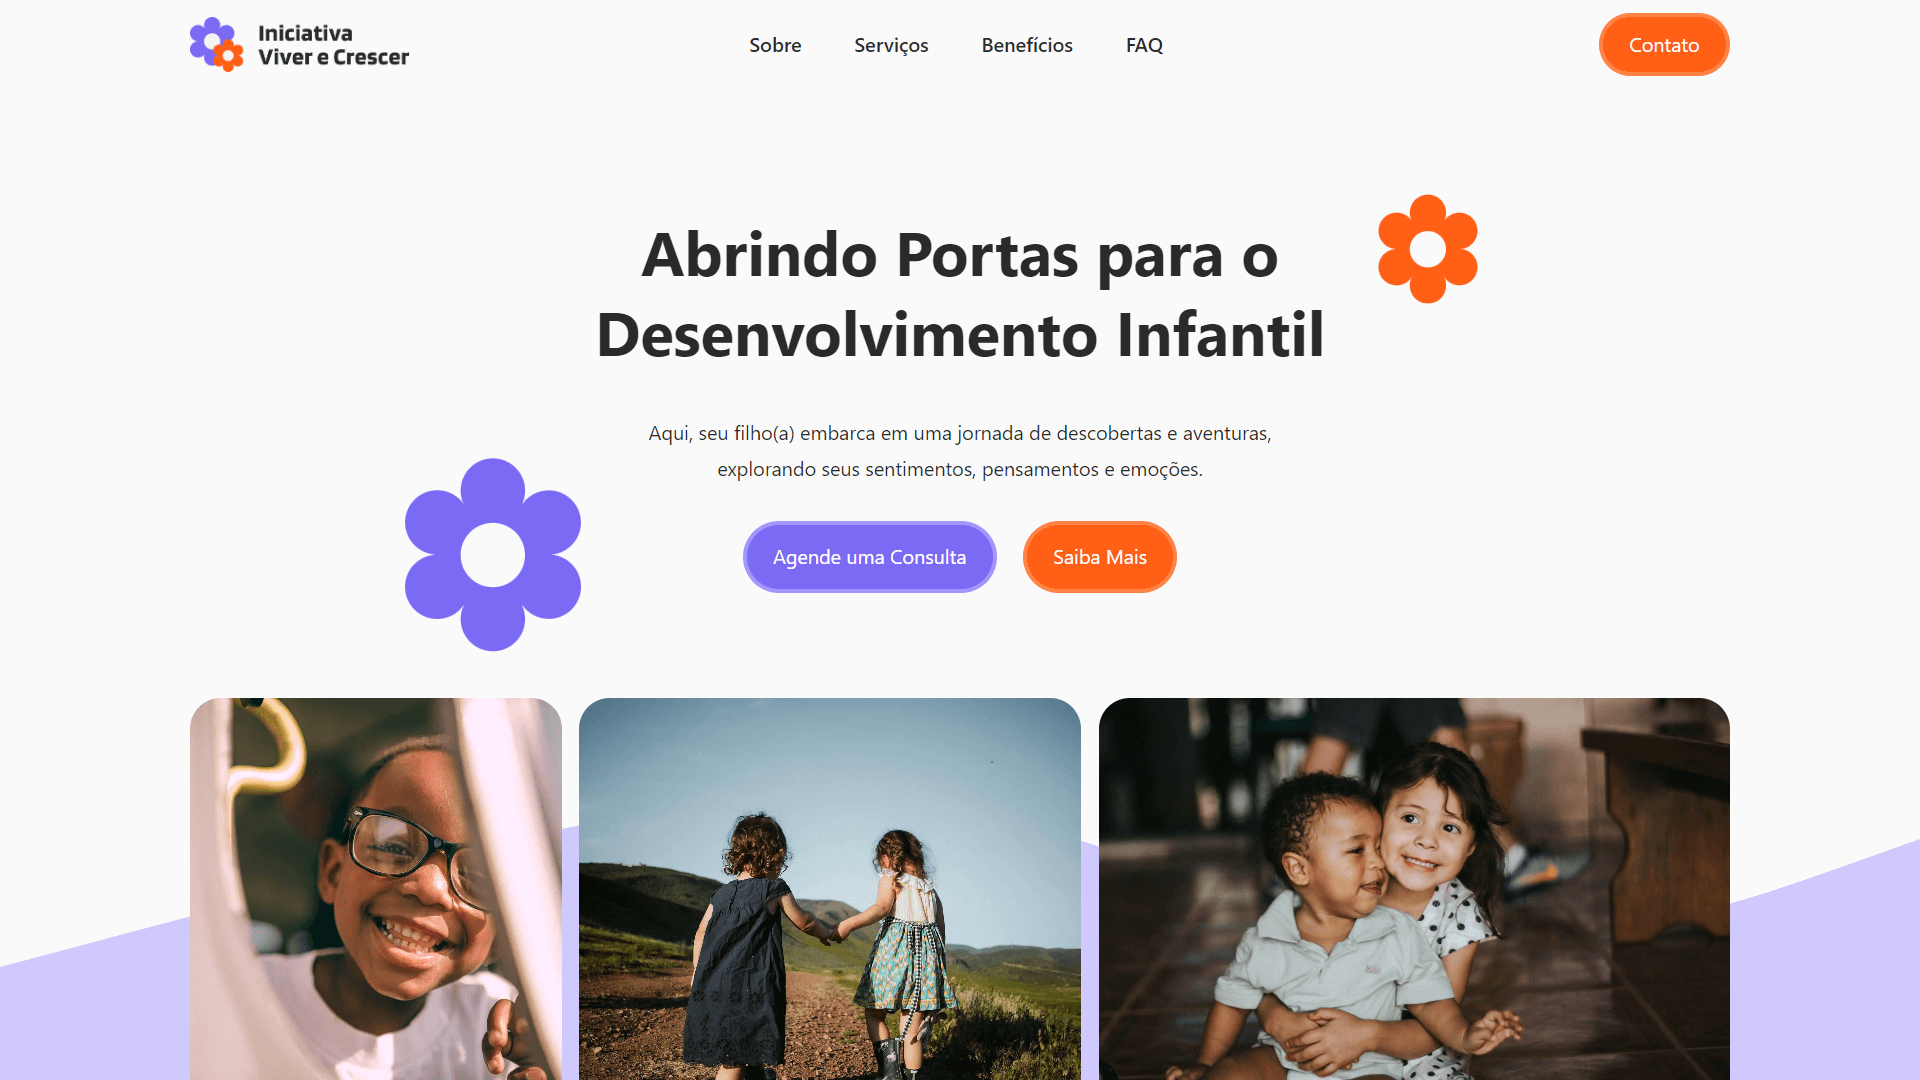
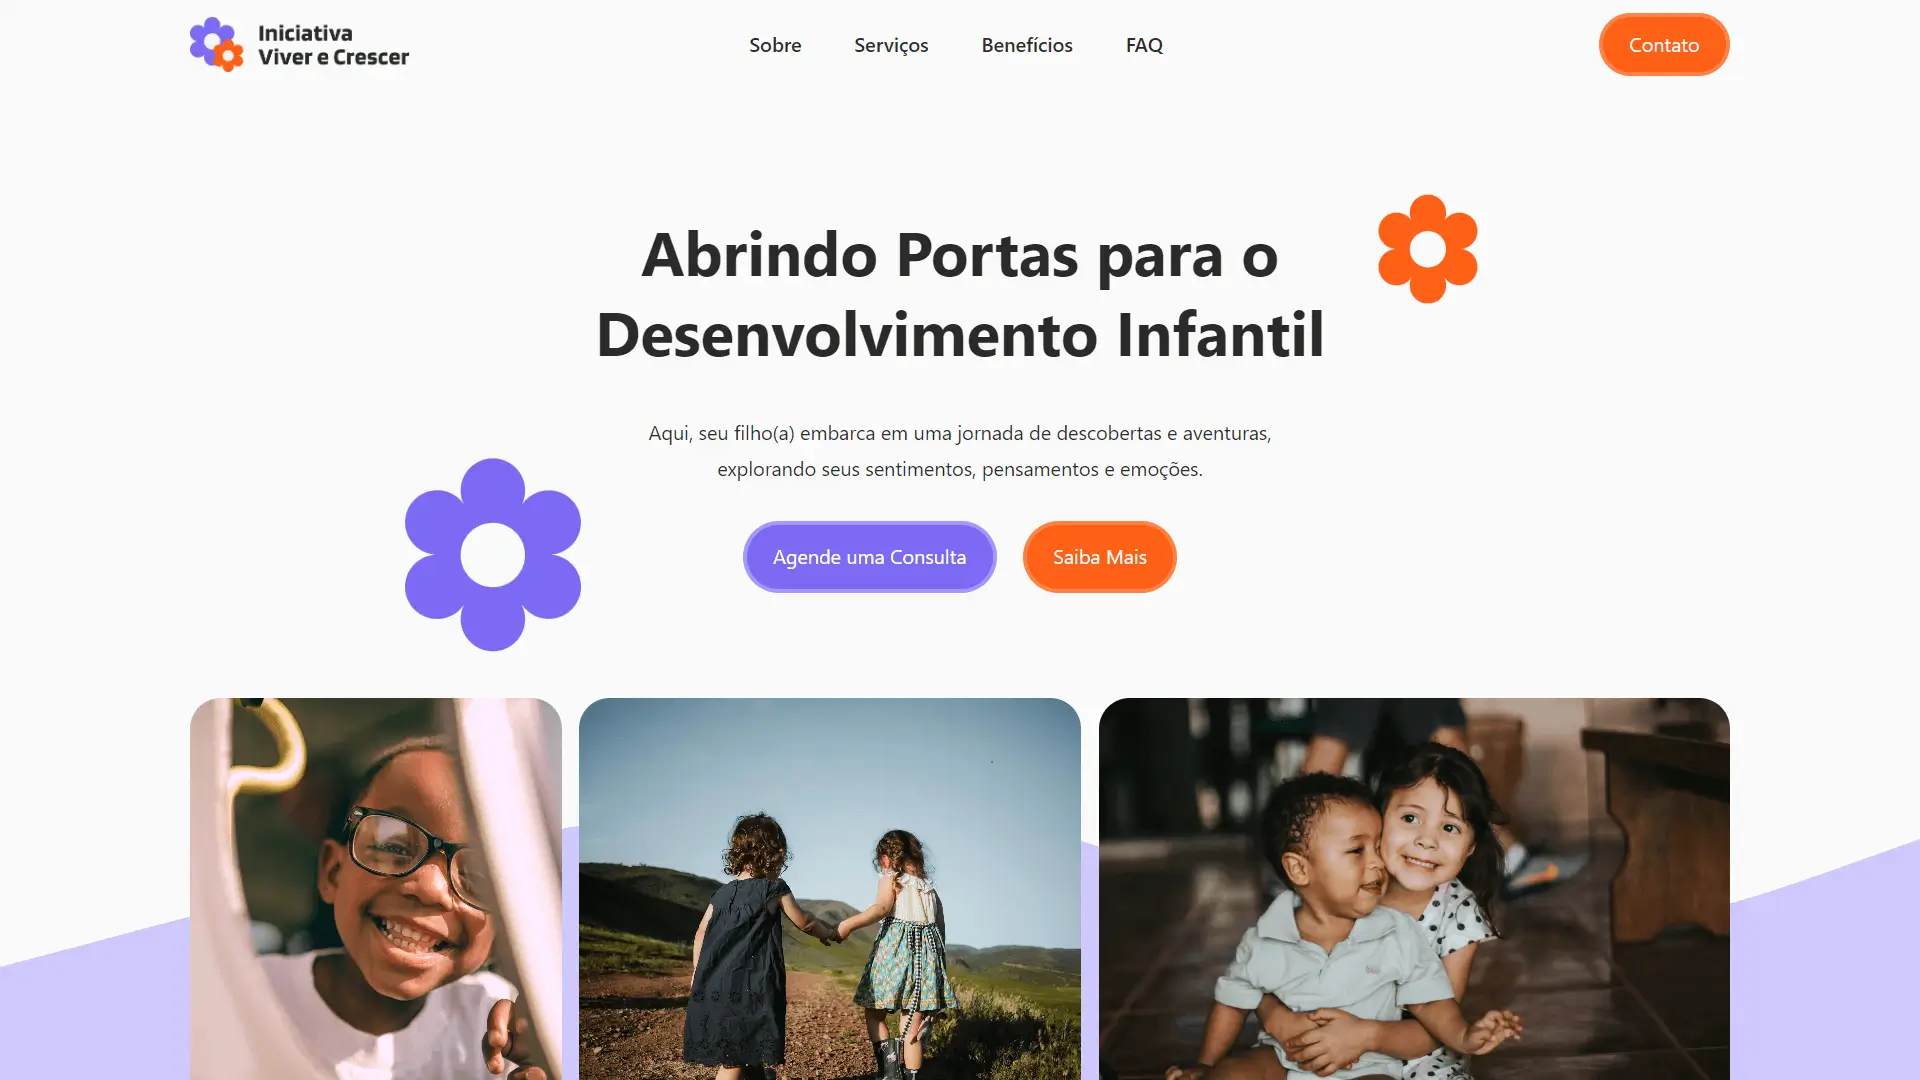
update: images sizes and minor styles fixes

diff --git a/style.css b/style.css
@@ -26,6 +26,7 @@
   --blue: #1d3997;
   --green: #135e54;
   --magenta: #7a1075;
+  --red: #ff0000;
 
   --rounded-xsm: 0.25rem;
   --rounded-sm: 0.375rem;
@@ -45,6 +46,8 @@
   box-sizing: border-box;
   text-decoration: none;
   list-style: none;
+  /* outline: 2px solid lime; */
+  /* background: hsl(0 100% 50% / .1)!important; */
 }
 
 ::selection {
@@ -300,7 +303,7 @@ textarea {
   gap: 4px;
 }
 
-/* --------------------------------- ANIMATIONS -------------------------------- */
+/* -------------------------------- ANIMATIONS -------------------------------- */
 
 .scale-up {
   animation: scale-up 0.8s cubic-bezier(0.4, 0, 0.2, 1);
@@ -315,8 +318,6 @@ textarea {
   }
 }
 
-/* header logo */
-
 @keyframes rotating {
   0% {
     transform: rotate(0);
@@ -329,9 +330,7 @@ textarea {
   }
 }
 
-/* ----------------------------------------------------------------------------- */
-
-/*  -------------------------------- CONTAINER WRAPPER ------------------------- */
+/*  ------------------------------- CONTAINER WRAPPER ------------------------- */
 
 .container {
   width: 100%;
@@ -343,8 +342,6 @@ textarea {
   width: min(100% - 64px, 1440px);
   margin-inline: auto;
 }
-
-/*  --------------------------------------------------------------------------- */
 
 /*  ---------------------------------- HEADER --------------------------------- */
 
@@ -385,7 +382,8 @@ textarea {
 }
 
 .logo-img {
-  width: 45px;
+  width: 44px;
+  height: 44px;
   scale: 0.3;
   opacity: 0;
   transition: scale 0.3s ease-in-out, opacity 0.3s ease-in-out;
@@ -606,8 +604,6 @@ textarea {
   background-color: var(--white);
 }
 
-/*  --------------------------------------------------------------------------- */
-
 /*  ------------------------------------ MAIN --------------------------------- */
 
 .hero-section {
@@ -775,10 +771,6 @@ textarea {
 .hero-button span:nth-of-type(2) svg {
   transform: rotate(45deg);
 }
-
-/* .hero-button:nth-of-type(2) {
-  background-color: #3a169c;
-} */
 
 .hero-design-element {
   content: "";
@@ -1477,7 +1469,7 @@ textarea {
 }
 
 .form-error {
-  color: red;
+  color: var(--red);
   padding: 8px 0px;
 }
 
@@ -1501,8 +1493,6 @@ textarea {
   z-index: -1;
   opacity: 0.2;
 }
-
-/*  --------------------------------------------------------------------------- */
 
 /*  ---------------------------------- FOOTER --------------------------------- */
 
@@ -1564,7 +1554,7 @@ textarea {
   flex: 1;
   display: flex;
   flex-direction: column;
-  gap: 0.5rem;
+  gap: 0.375rem;
   font-size: clamp(
     1.125rem,
     0.3846153846153846rem + 0.9615384615384616vw,
@@ -1650,7 +1640,7 @@ textarea {
   color: var(--accent-dark);
 }
 
-/*  -------------------------------- RESPONSIVE -------------------------------- */
+/*  ------------------------------- RESPONSIVE -------------------------------- */
 
 @media (max-width: 1440px) {
   .container {

diff --git a/index.html b/index.html
@@ -70,8 +70,10 @@
           <img
             class="logo-img"
             src="./assets/images/logo-planet.webp"
-            alt=""
+            alt="logo"
             loading="lazy"
+            width="44"
+            height="44"
           />
         </a>
         <div class="header-ul-shadow"></div>
